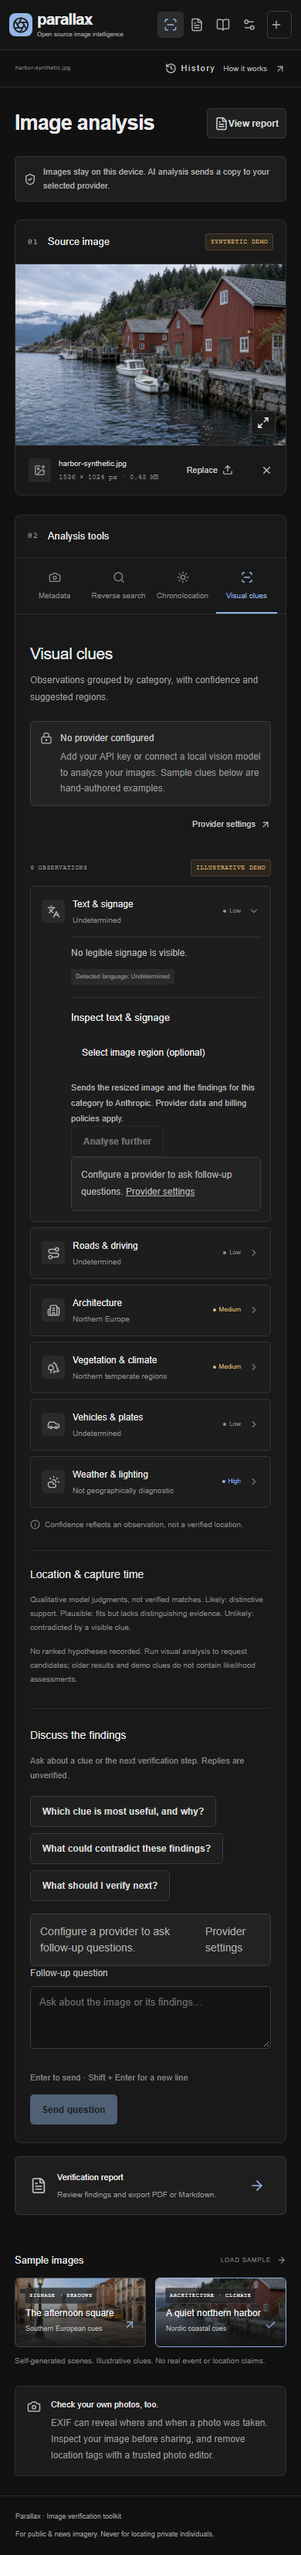
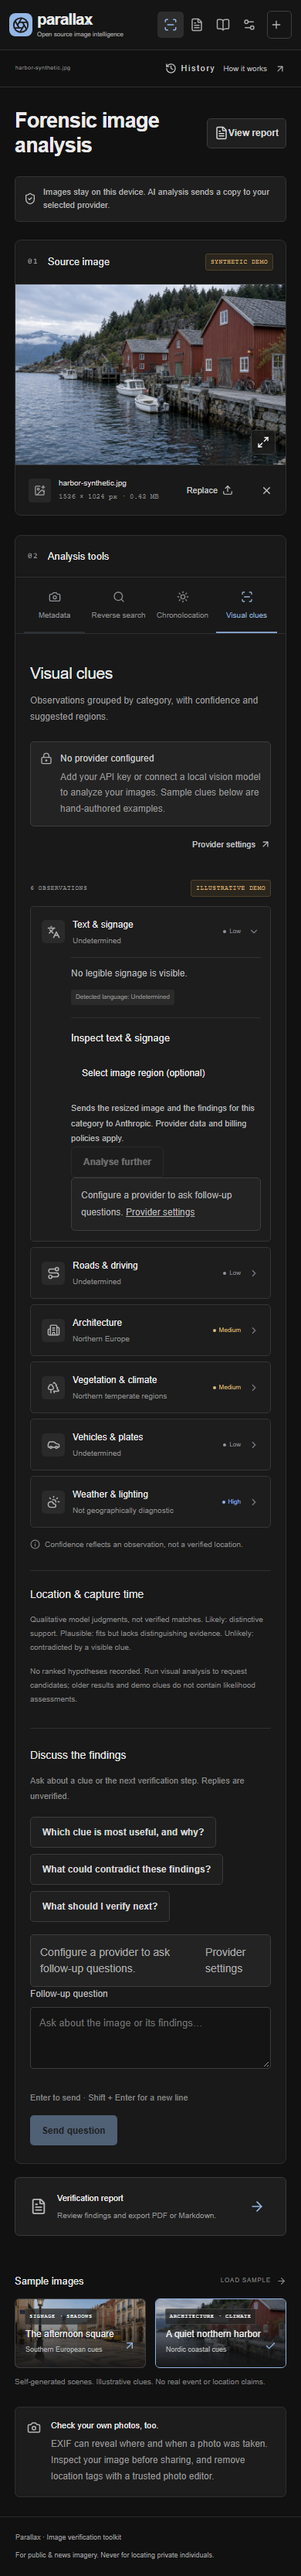
Rename workspace heading to Forensic image analysis

diff --git a/tests/e2e/workspace.spec.ts b/tests/e2e/workspace.spec.ts
@@ -7,7 +7,7 @@ test('demo, tool navigation, exports and mobile layout', async ({ page }) => {
   const errors: string[] = [];
   page.on('pageerror', (error) => errors.push(error.message));
   await page.goto('./');
-  await expect(page.getByRole('heading', { name: 'Image analysis' })).toBeVisible();
+  await expect(page.getByRole('heading', { name: 'Forensic image analysis' })).toBeVisible();
   await page.getByRole('button', { name: /The afternoon square/ }).click();
   await expect(page.getByText('square-synthetic.jpg', { exact: true }).last()).toBeVisible();
   await expect(page.getByText('No readable camera or editing metadata.')).toBeVisible();
@@ -146,7 +146,9 @@ test('mobile workspace keeps tools before samples and history closes with Escape
 }) => {
   await page.setViewportSize({ width: 390, height: 844 });
   await page.goto('./');
-  await expect(page.getByRole('heading', { name: 'Image analysis', exact: true })).toBeVisible();
+  await expect(
+    page.getByRole('heading', { name: 'Forensic image analysis', exact: true }),
+  ).toBeVisible();
   await expect(page.getByRole('tablist')).toHaveCount(0);
   await page.getByRole('button', { name: /The afternoon square/ }).click();
   await expect(page.getByRole('tablist')).toBeVisible();

diff --git a/src/components/workspace.tsx b/src/components/workspace.tsx
@@ -81,7 +81,7 @@ function WorkspaceSession() {
     <div className="workspace">
       <div className="page-heading">
         <div>
-          <h1>Image analysis</h1>
+          <h1>Forensic image analysis</h1>
         </div>
         <Link href="/report" className="button secondary report-top">
           <FileText size={16} />
